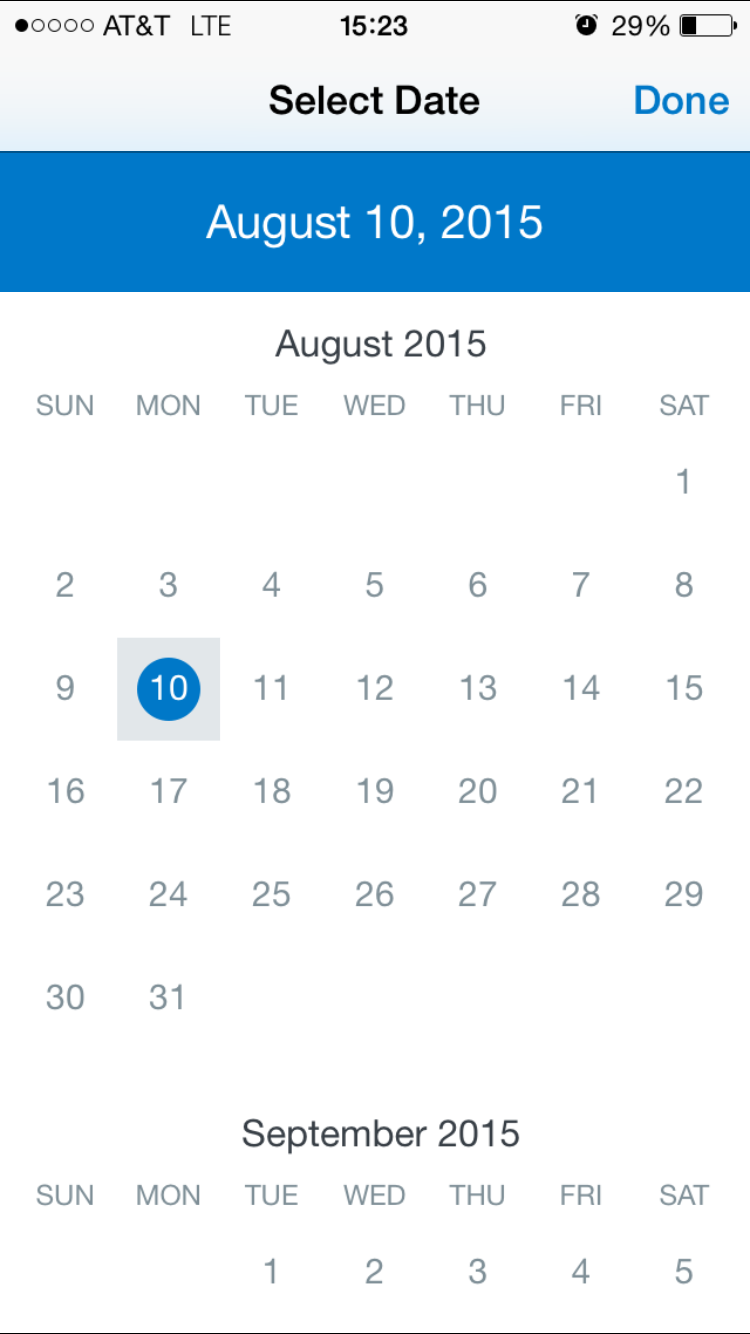
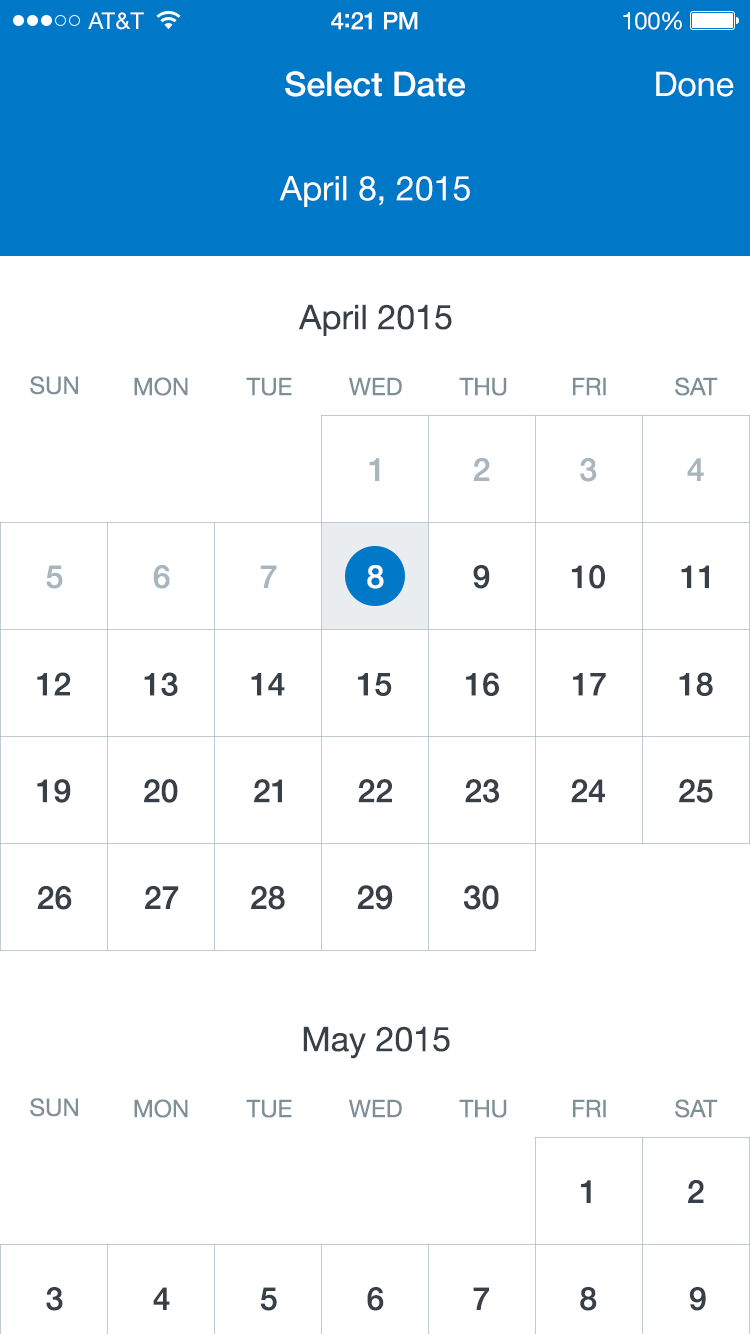
iOS: Update Date Picker, Collection View
Updated existing redlines/graphics.

diff --git a/pages/ios/components_date_picker.html b/pages/ios/components_date_picker.html
@@ -10,11 +10,11 @@
 		<div>
 			<figure>
 				<img src="img/ios/components/controls/date_picker/date_picker_01.png" alt="Date Picker" width="338" height="599"/>
-				<div class="figure_text">Date Picker</div>
+				<div class="figure_text">'Single' Date Picker</div>
 			</figure>
 			<figure>
 				<img src="img/ios/components/controls/date_picker/date_picker_02.png" alt="Date Picker" width="338" height="599"/>
-				<div class="figure_text">Date Picker</div>
+				<div class="figure_text">'Multi' Date Picker</div>
 			</figure>
 		</div>
 	</div>
@@ -29,10 +29,9 @@
 				Font, color, and Usage:
 				<ul>
 					<li>Default background fill: Concur Blue #0078C8</li>
-					<li>'Single' Date Picker: 64 tall</li>
-					<li>'Single' Date Picker: 100% Dynamic Wide</li>				
-					<li>Date Alignment: centerX, centerY</li>	
-					<li>Date: SF UI Display, 20 points, White #FFFFFF></li>					
+					<li>Default background: 64 tall, 375 wide - 100% dynamic wide</li>
+					<li>Date Alignment: centerX, 24 down</li>	
+					<li>Date: SF UI Display, 20 points, White #FFFFFF</li>					
 				</ul>
 			</p>
 		</div>
@@ -47,7 +46,7 @@
 </section>
 
 <section>
-<h2>'Check-in, Check-out' Date Picker</h2>	
+<h2>'Multi' Date Picker</h2>	
 <h3>Specs</h3>
 	<div class="flexContainer half">
 		<div>
@@ -55,21 +54,23 @@
 				Font, color, and Usage:
 				<ul>
 					<li>Default background fill: Concur Blue #0078C8</li>
-					<li>'Check-in, Check-out' Date Picker: 64 tall</li>
-					<li>'Check-in, Check-out' Date Picker: 100% Dynamic Wide</li>				
-					<li>'Check-in, Check-out': 15 padding</li>						
+					<li>Default background: 64 tall, 375 wide - 100% dynamic wide </li>
+<!--
 					<li>Calender Image: 15 down</li>
 					<li>Calender Image: 20x20, Cadet Blue #A7D8F1</li>
-					<li>'Check-in' Text: 15 right</li>
-					<li>'Check-in' Text: SF UI Display, 14 points, Cadet Blue #A7D8F1></li>			
-					<li>'Check-in' Date: 10 down</li>
-					<li>'Check-in' Date: SF UI Display, 16 points, White #FFFFFF></li>			
+-->
+					<li>'Check-in' Text: 50 right, 16 down</li>
+					<li>'Check-in' Text: SF UI Display, 14 points, White #FFFFFF; 60% Opacity</li>			
+					<li>'Check-in' Date: 11 down</li>
+					<li>'Check-in' Date: SF UI Display, 16 points, White #FFFFFF</li>			
 					<li>Divider Alignment: centerX, centerY</li>					
-					<li>Divider: 1px, 30% Opacity, Medium Grey #A7B6BF</li>
-					<li>'Check-out' Text: 350 right, 15 down</li>
-					<li>'Check-out' Text: SF UI Display, 14 points, Cadet Blue #A7D8F1></li>								
-					<li>'Check-out' Date: 10 down</li>
-					<li>'Check-out' Date: SF UI Display, 16 points, White #FFFFFF></li>	
+					<li>Divider: 1px, White #FFFFFF; 20% Opacity</li>					
+					<li>'Check-out' Text: 211 right, 16 down</li>
+					<li>'Check-out' Text: SF UI Display, 14 points, White #FFFFFF; 60% Opacity</li>								
+					<li>'Check-out' Date: 11 down</li>
+					<li>'Check-out' Date: SF UI Display, 16 points, White #FFFFFF</li>	
+					<li>Arrow Pointer: Indented 85 based off of current selection</li>	
+					
 				</ul>
 			</p>
 		</div>
@@ -77,7 +78,51 @@
 			<figure class="diagram">
 				<img class="redlines_on" src="img/ios/components/controls/date_picker/redlines_date_picker_02_on.png" alt="'Check-in, Check-out' Date Picker" width="338" height="599"/>
 				<img class="redlines_off" src="img/ios/components/controls/date_picker/redlines_date_picker_02_off.png" alt="'Check-in, Check-out' Date Picker" width="338" height="599"/>
-				<div class="figure_text">Redlines with 'Check-in, Check-out' Date Picker</div>
+				<div class="figure_text">Redlines with 'Multi' Date Picker</div>
+			</figure>
+		</div>
+	</div>
+</section>
+
+<section>
+<h2>Calendar Picker</h2>	
+<h3>Specs</h3>
+	<div class="flexContainer half">
+		<div>
+			<p>
+				Font, color, and Usage:
+				<ul>
+					<li>Default background fill: White #FFFFFF</li>
+					<li>Default background: 539 tall, 100% Dynamic Wide</li>
+					<li>Padding above Month: 24</li>				
+					<li>Month Text: SF UI Display, 17 points, Charcoal #383F46</li>	
+					<li>Padding above Days of the Week: 21</li>
+					<li>Days of the week Text: SF UI Display, 12 points, Dark Grey #7F8F97</li>
+					<li>Padding above Dates: 10</li>
+					<li>Date background fill: Light Grey #DBE1E6</li>
+					<li>Date background: 53 tall, 53 wide</li>
+					<li>Date Dividers: 1px, Medium Grey #A7B6BF; 70% Opacity</li>					
+					<li>Date Text Alignment: centerX, centerY</li>
+					<li>Date (Past) Text: SF UI Display, 16 points, Medium Grey #A7B6BF</li>
+					<li>Date (Current) background fill: Light Grey #DBE1E6</li>
+					<li>Date (Current) Text: SF UI Display, 16 points, Charcoal #383F46</li>
+					<li>Date (Future) Text: SF UI Display, 16 points, Charcoal #383F46</li>
+					<li>Selector Alignment: centerX, centerY</li>
+					<li>Selector background fill: Concur Blue #0078C8</li>
+					<li>Selector background: 30 tall, 30 Wide</li>
+					<li>Selector Highlight background fill: Concur Blue #0078C8; 10% Opacity</li>
+					<li>Selector Highlight background fill: 100% Dynamic Wide</li>					
+					<li>'Check-in' Text: SF UI Display, 16 points, White #FFFFFF</li>			
+					<li>'Check-out' Text: SF UI Display, 16 points, White #FFFFFF</li>										
+					<li>Padding below Month: 19</li>
+				</ul>
+			</p>
+		</div>
+		<div>
+			<figure class="diagram">
+				<img class="redlines_on" src="img/ios/components/controls/date_picker/redlines_date_picker_03_on.png" alt="'Check-in, Check-out' Date Picker" width="338" height="599"/>
+				<img class="redlines_off" src="img/ios/components/controls/date_picker/redlines_date_picker_03_off.png" alt="'Check-in, Check-out' Date Picker" width="338" height="599"/>
+				<div class="figure_text">Redlines with Calendar Picker</div>
 			</figure>
 		</div>
 	</div>

diff --git a/pages/ios/components_collection_view.html b/pages/ios/components_collection_view.html
@@ -37,14 +37,15 @@
 			<p>
 				Font, color, and Usage:
 				<ul>
+					<li>Rectangle Alignment: centerY</li>													
 					<li>Rectangle background fill: White #FFFFFF</li>
 					<li>Rectangle stroke color: Light Grey #DBE1E6</li>							
-					<li>Rectangle: 240 tall</li>
-					<li>Rectangle: 335 wide</li>
-					<li>Rectangle radius: 4</li>												
-					<li>Rectangle: 8 padding</li>												
-					<li>Iconography 18, Light Grey #DBE1E6</li>							
+					<li>Rectangle: 167 wide, 117 tall </li>
+					<li>Rectangle radius: 4</li>			
+					<li>Rectangle Padding: 9</li>									
 					<li>Iconography Alignment: centerX, centerY</li>								
+					<li>Iconography: 19 wide, 21 tall </li>
+					<li>Iconography: Light Grey #DBE1E6</li>							
 				</ul>
 			</p>
 		</div>
